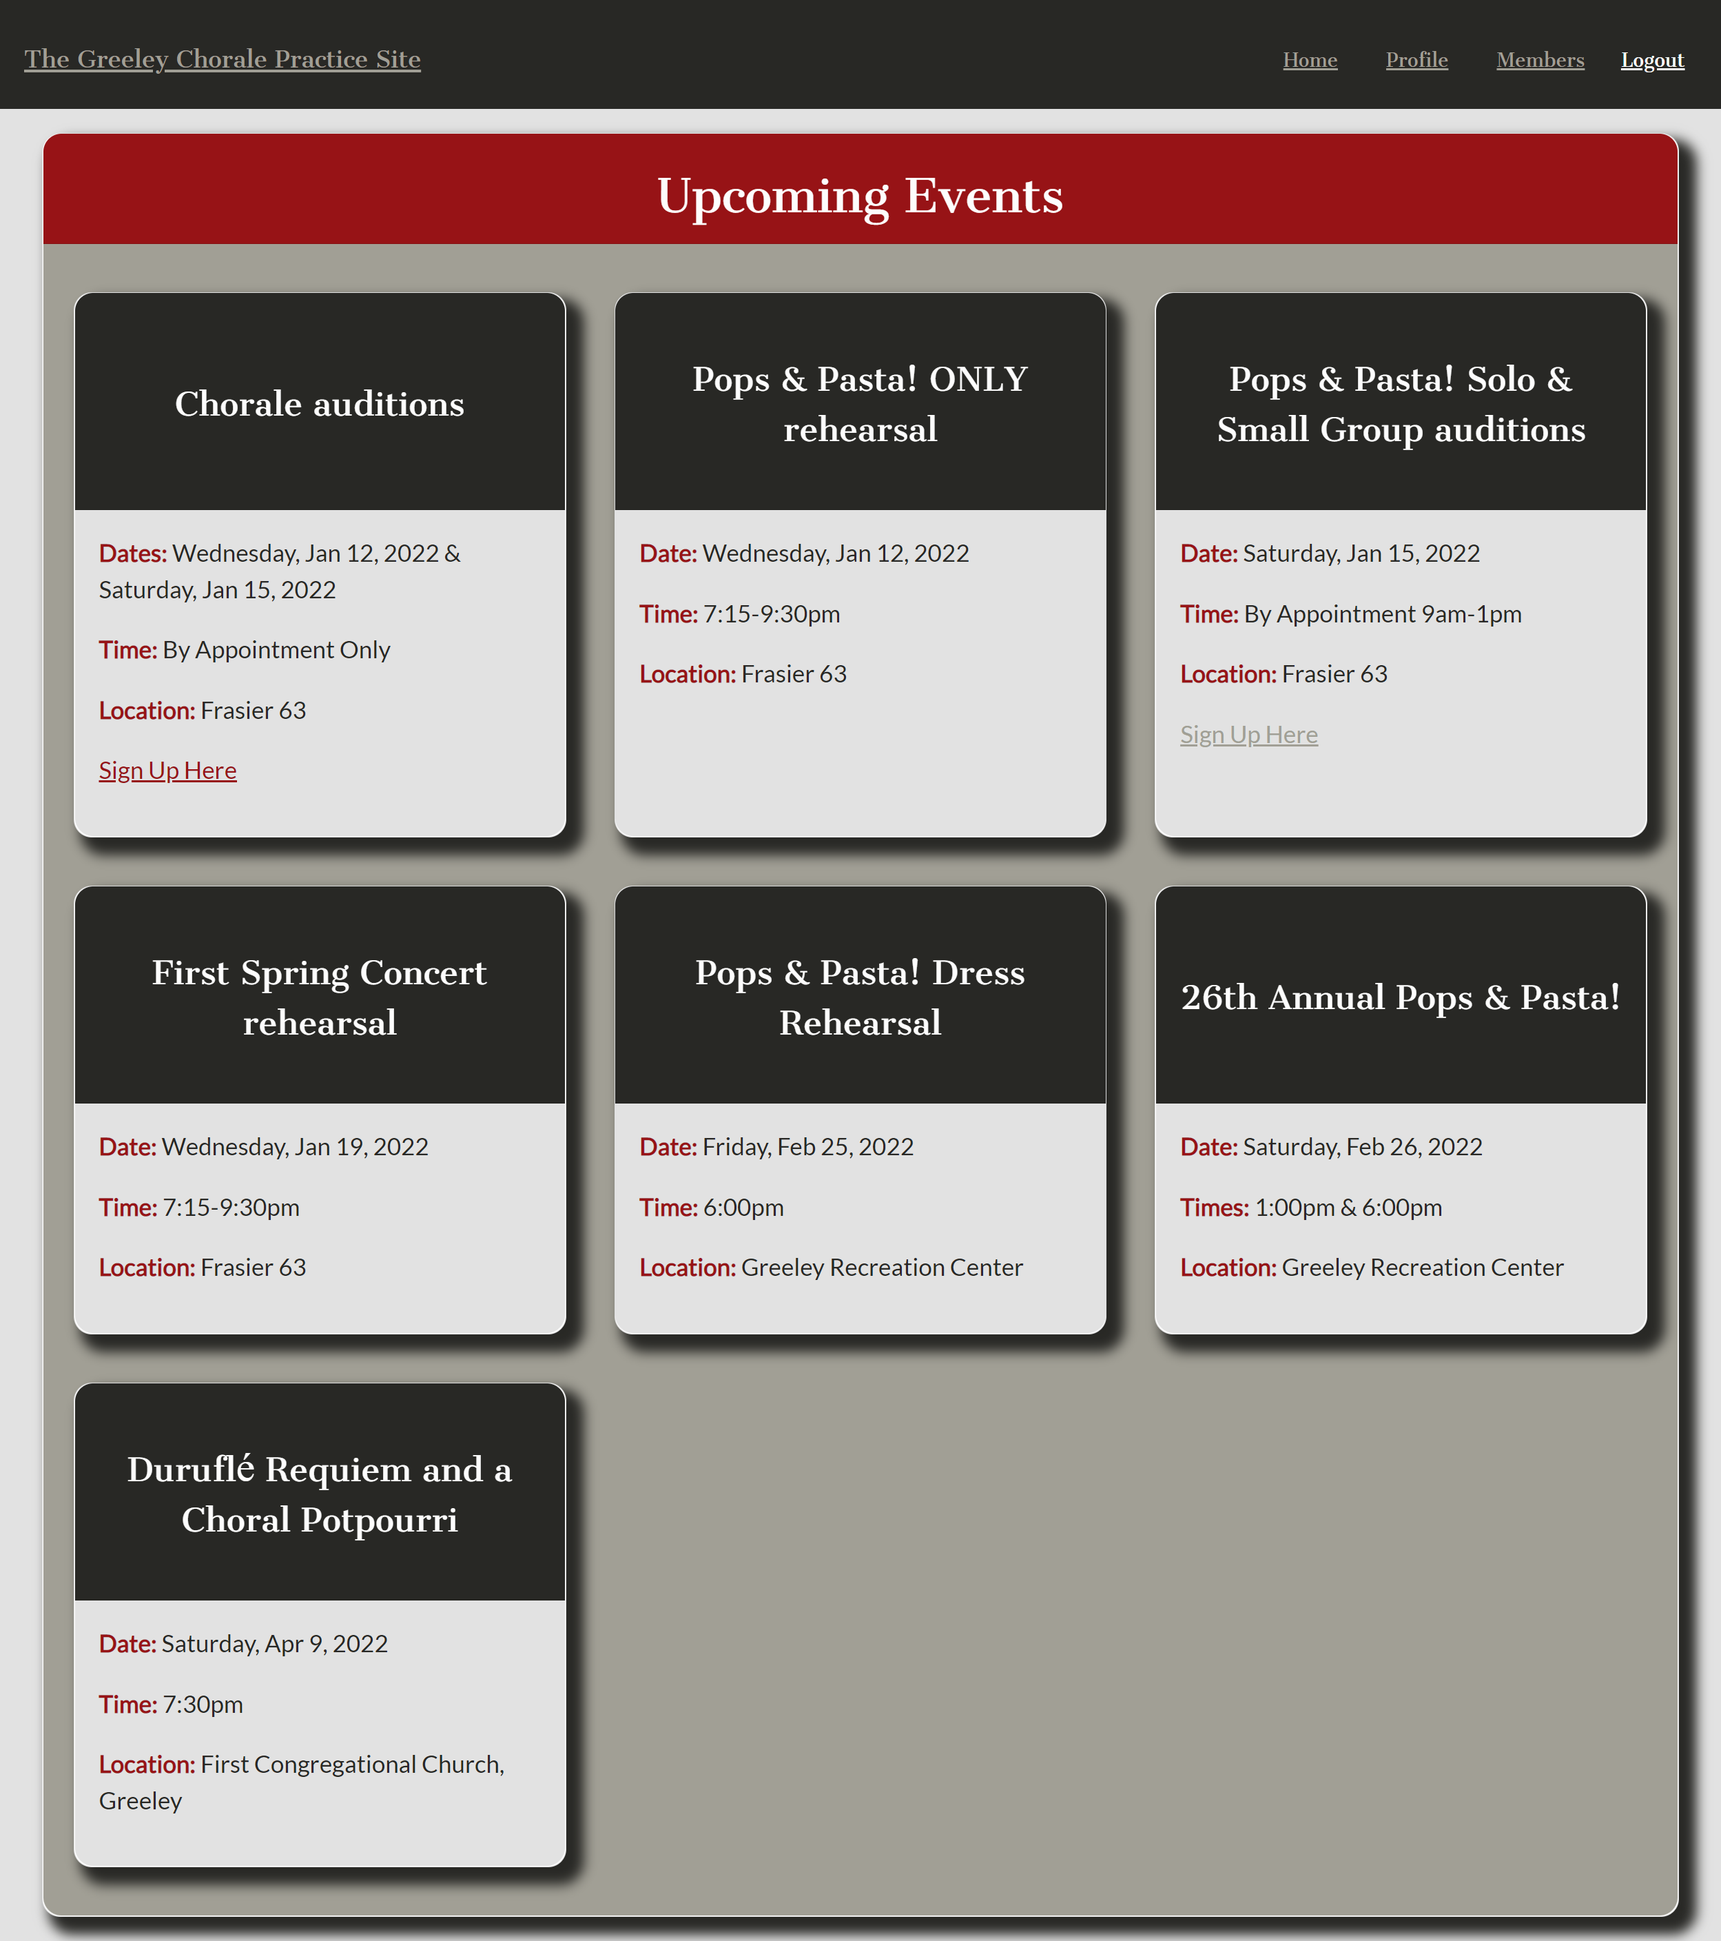
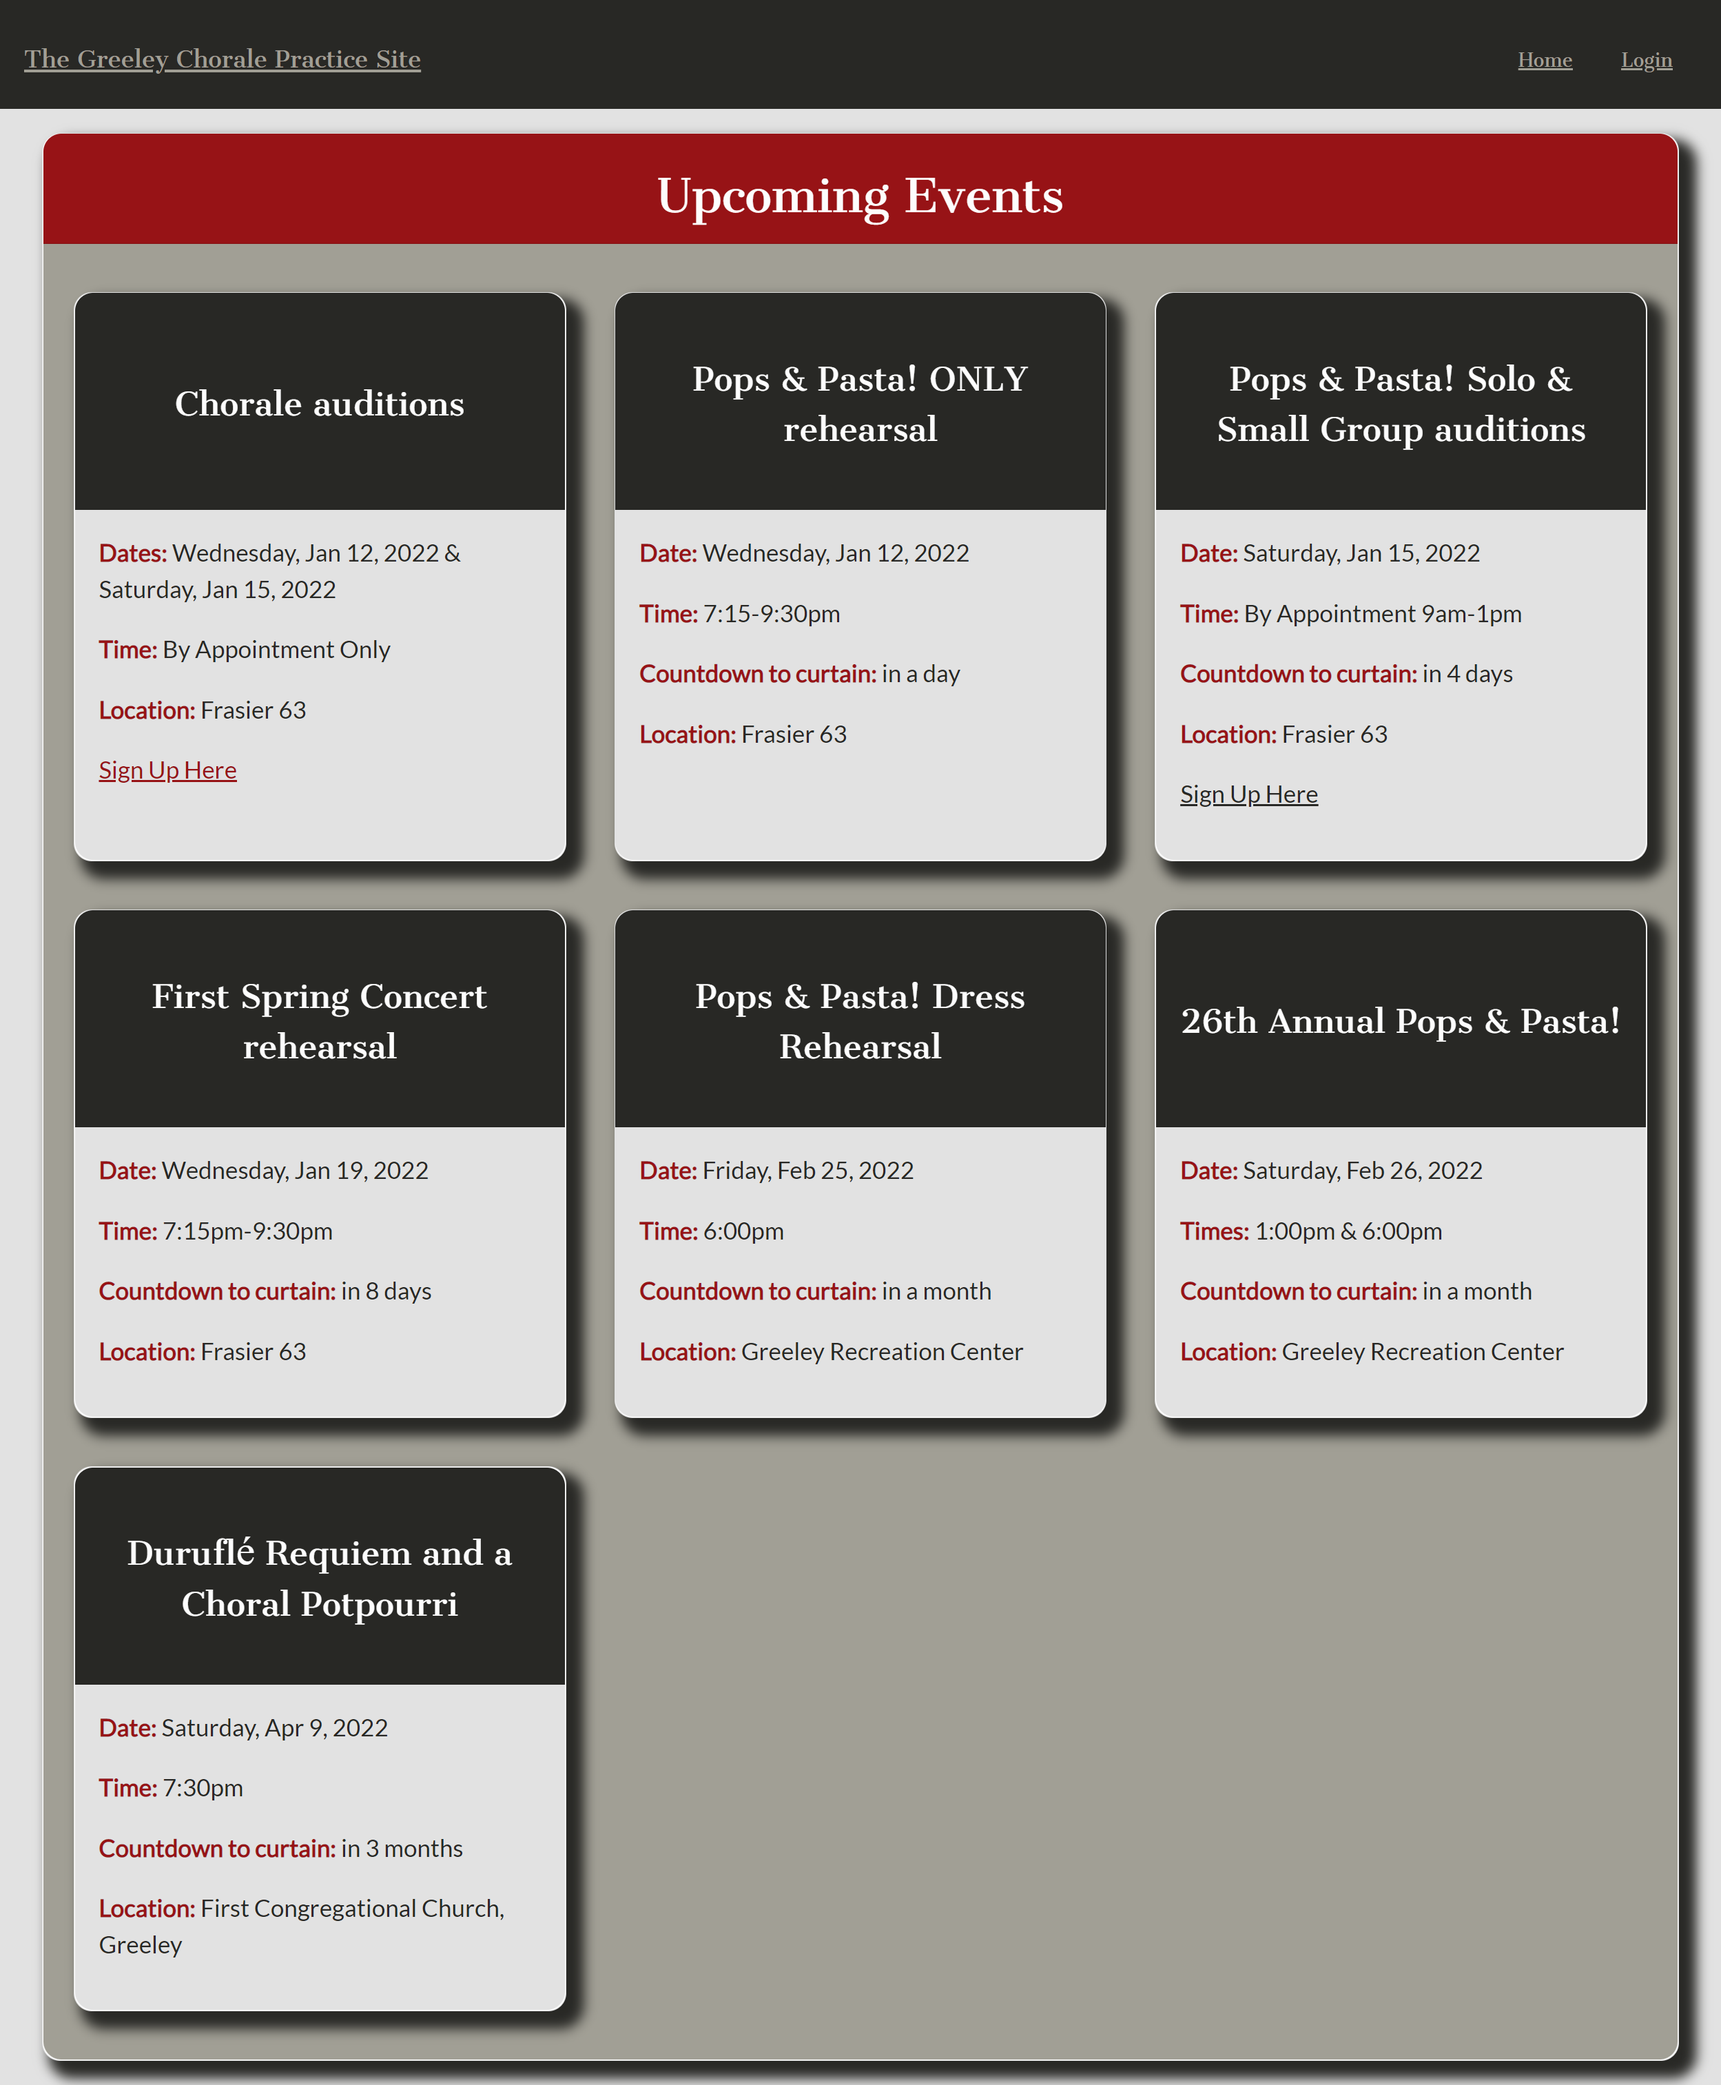
added enforced casing on times on concertForm; added capsCase() to times on concertCard; added 'countdown to curtain' to tracksCard; replaced screenshots of lander and section page

Changed region(s): [[0.0, 0.0312, 1.0, 1.0]]

diff --git a/client/src/components/cards/tracksCard.js b/client/src/components/cards/tracksCard.js
@@ -1,8 +1,13 @@
 import { useEffect, useState } from "react";
 import { Card } from "react-bootstrap";
 import dayjs from "dayjs";
+import customParseFormat from "dayjs/plugin/customParseFormat";
+import relativeTime from "dayjs/plugin/relativeTime";
 import SongCard from "./songCard"
 import "./style.css";
+
+dayjs.extend(customParseFormat);
+dayjs.extend(relativeTime);
 
 const TracksCard = ({ concert, section }) => {
   const [allSongs, setAllSongs] = useState(concert.songs);
@@ -14,6 +19,30 @@ const TracksCard = ({ concert, section }) => {
 
   const dates = formatDate(concert.date);
   const times = concert.time.length > 1 ? concert.time.join(" & ") : concert.time[0].toString();
+
+  const formatTime = (time) => {
+    let formattedTime = "";
+    const timeArr = time.split(" ");
+    const filteredArr = timeArr.filter(time => (time.includes(":") || time.includes("am") || time.includes("pm")));
+    if (filteredArr.length) {
+      const splitFiltered = filteredArr.map(time => time.split("-")).flat();
+      const addMins = splitFiltered.map(time => time.indexOf(":") === -1 ? (time.indexOf("m") > -1 || time.indexOf("M") > -1 ? `${time.slice(0, -2)}:00${time.slice(-2)}` : `${time}:00`) : time);
+      const findMeridiem = addMins.map(time => time.slice(-2));
+      if (!["am", "pm", "AM", "PM"].includes(findMeridiem[0])) {
+        formattedTime = `${addMins[0]}${findMeridiem[1]}`
+      } else {
+        formattedTime = addMins[0];
+      }
+    }
+    return formattedTime;
+  };
+
+  const howLong = (date, time) => {
+    const formattedTime = formatTime(time);
+    const dayjsDate = dayjs(`${date} ${formattedTime}`, "MM-DD-YYYY h:mma");
+    const counter = dayjs(dayjsDate, "MM-DD-YYYY h:mm a").fromNow();
+    return counter;
+  }
 
   useEffect(() => {
     const filteredSongs = concert.songs.filter(song => song.concertOrder);
@@ -30,7 +59,7 @@ const TracksCard = ({ concert, section }) => {
       <Card className="tracksCard">
         <Card.Header className="tracksTitle">
           <h2>{concert.name}</h2>
-          <p>{dates} | {times}</p>
+          <p>{dates} | {times} | <span className="boldOutline">Countdown to curtain</span>: {howLong(concert.date[0], concert.time[0])}</p>
         </Card.Header>
         <Card.Body className="cardBody">
           {allSongs.map((song, i) => (

diff --git a/client/src/components/cards/concertCard.js b/client/src/components/cards/concertCard.js
@@ -41,6 +41,13 @@ const ConcertCard = ({ concert }) => {
   const times = concert.time.length > 1 ? concert.time.join(" & ") : concert.time[0].toString();
   const venues = concert.venue.length > 1 ? concert.venue.join(" & ") : concert.venue[0].toString();
 
+  const capsCase = (str) => {
+    const wordsArr = str.split(" ");
+    const capsArr = wordsArr.map(word => word[0].toUpperCase() + word.substring(1));
+    const casedStr = capsArr.join(" ");
+    return casedStr;
+  }
+
 
   return (
     <>
@@ -53,8 +60,8 @@ const ConcertCard = ({ concert }) => {
             ? <p><span className="bold">Dates:</span> {dates}</p>
             : <p><span className="bold">Date:</span> {dates}</p>}
           {times.includes("&")
-            ? <p><span className="bold">Times:</span> {times}</p>
-            : <p><span className="bold">Time:</span> {times}</p>}
+            ? <p><span className="bold">Times:</span> {capsCase(times)}</p>
+            : <p><span className="bold">Time:</span> {capsCase(times)}</p>}
           {(times.includes("am") || times.includes("pm"))
             ? <p><span className="bold">Countdown to curtain:</span> {howLong(concert.date[0], concert.time[0])}</p>
             : <></>}

diff --git a/client/src/components/forms/concertForm.js b/client/src/components/forms/concertForm.js
@@ -41,8 +41,12 @@ const ConcertForm = () => {
   const handleInputChange = (e) => {
     const { name, value } = e.target;
     setConcertData({ ...concertData, [name]: value });
-    if (["date", "time", "venue", "addlMaterials"].includes(name)) {
+    if (["date", "venue", "addlMaterials"].includes(name)) {
       let dataArr = value.split(",");
+      setConcertData({ ...concertData, [name]: dataArr });
+    }
+    if (name === "time") {
+      let dataArr = value.toLowerCase().split(",");
       setConcertData({ ...concertData, [name]: dataArr });
     }
   };

diff --git a/client/src/components/cards/style.css b/client/src/components/cards/style.css
@@ -25,6 +25,12 @@ a:hover {
   font-weight: 700;
 }
 
+.boldOutline {
+  color: var(--gcRed);
+  font-weight: 700;
+  text-shadow: -1px 1px 0 var(--lightSil), 1px 1px 0 var(--lightSil), 1px -1px 0 var(--lightSil), -1px -1px 0 var(--lightSil);
+}
+
 .announcements,
 .concertCard,
 .tracksCard {
